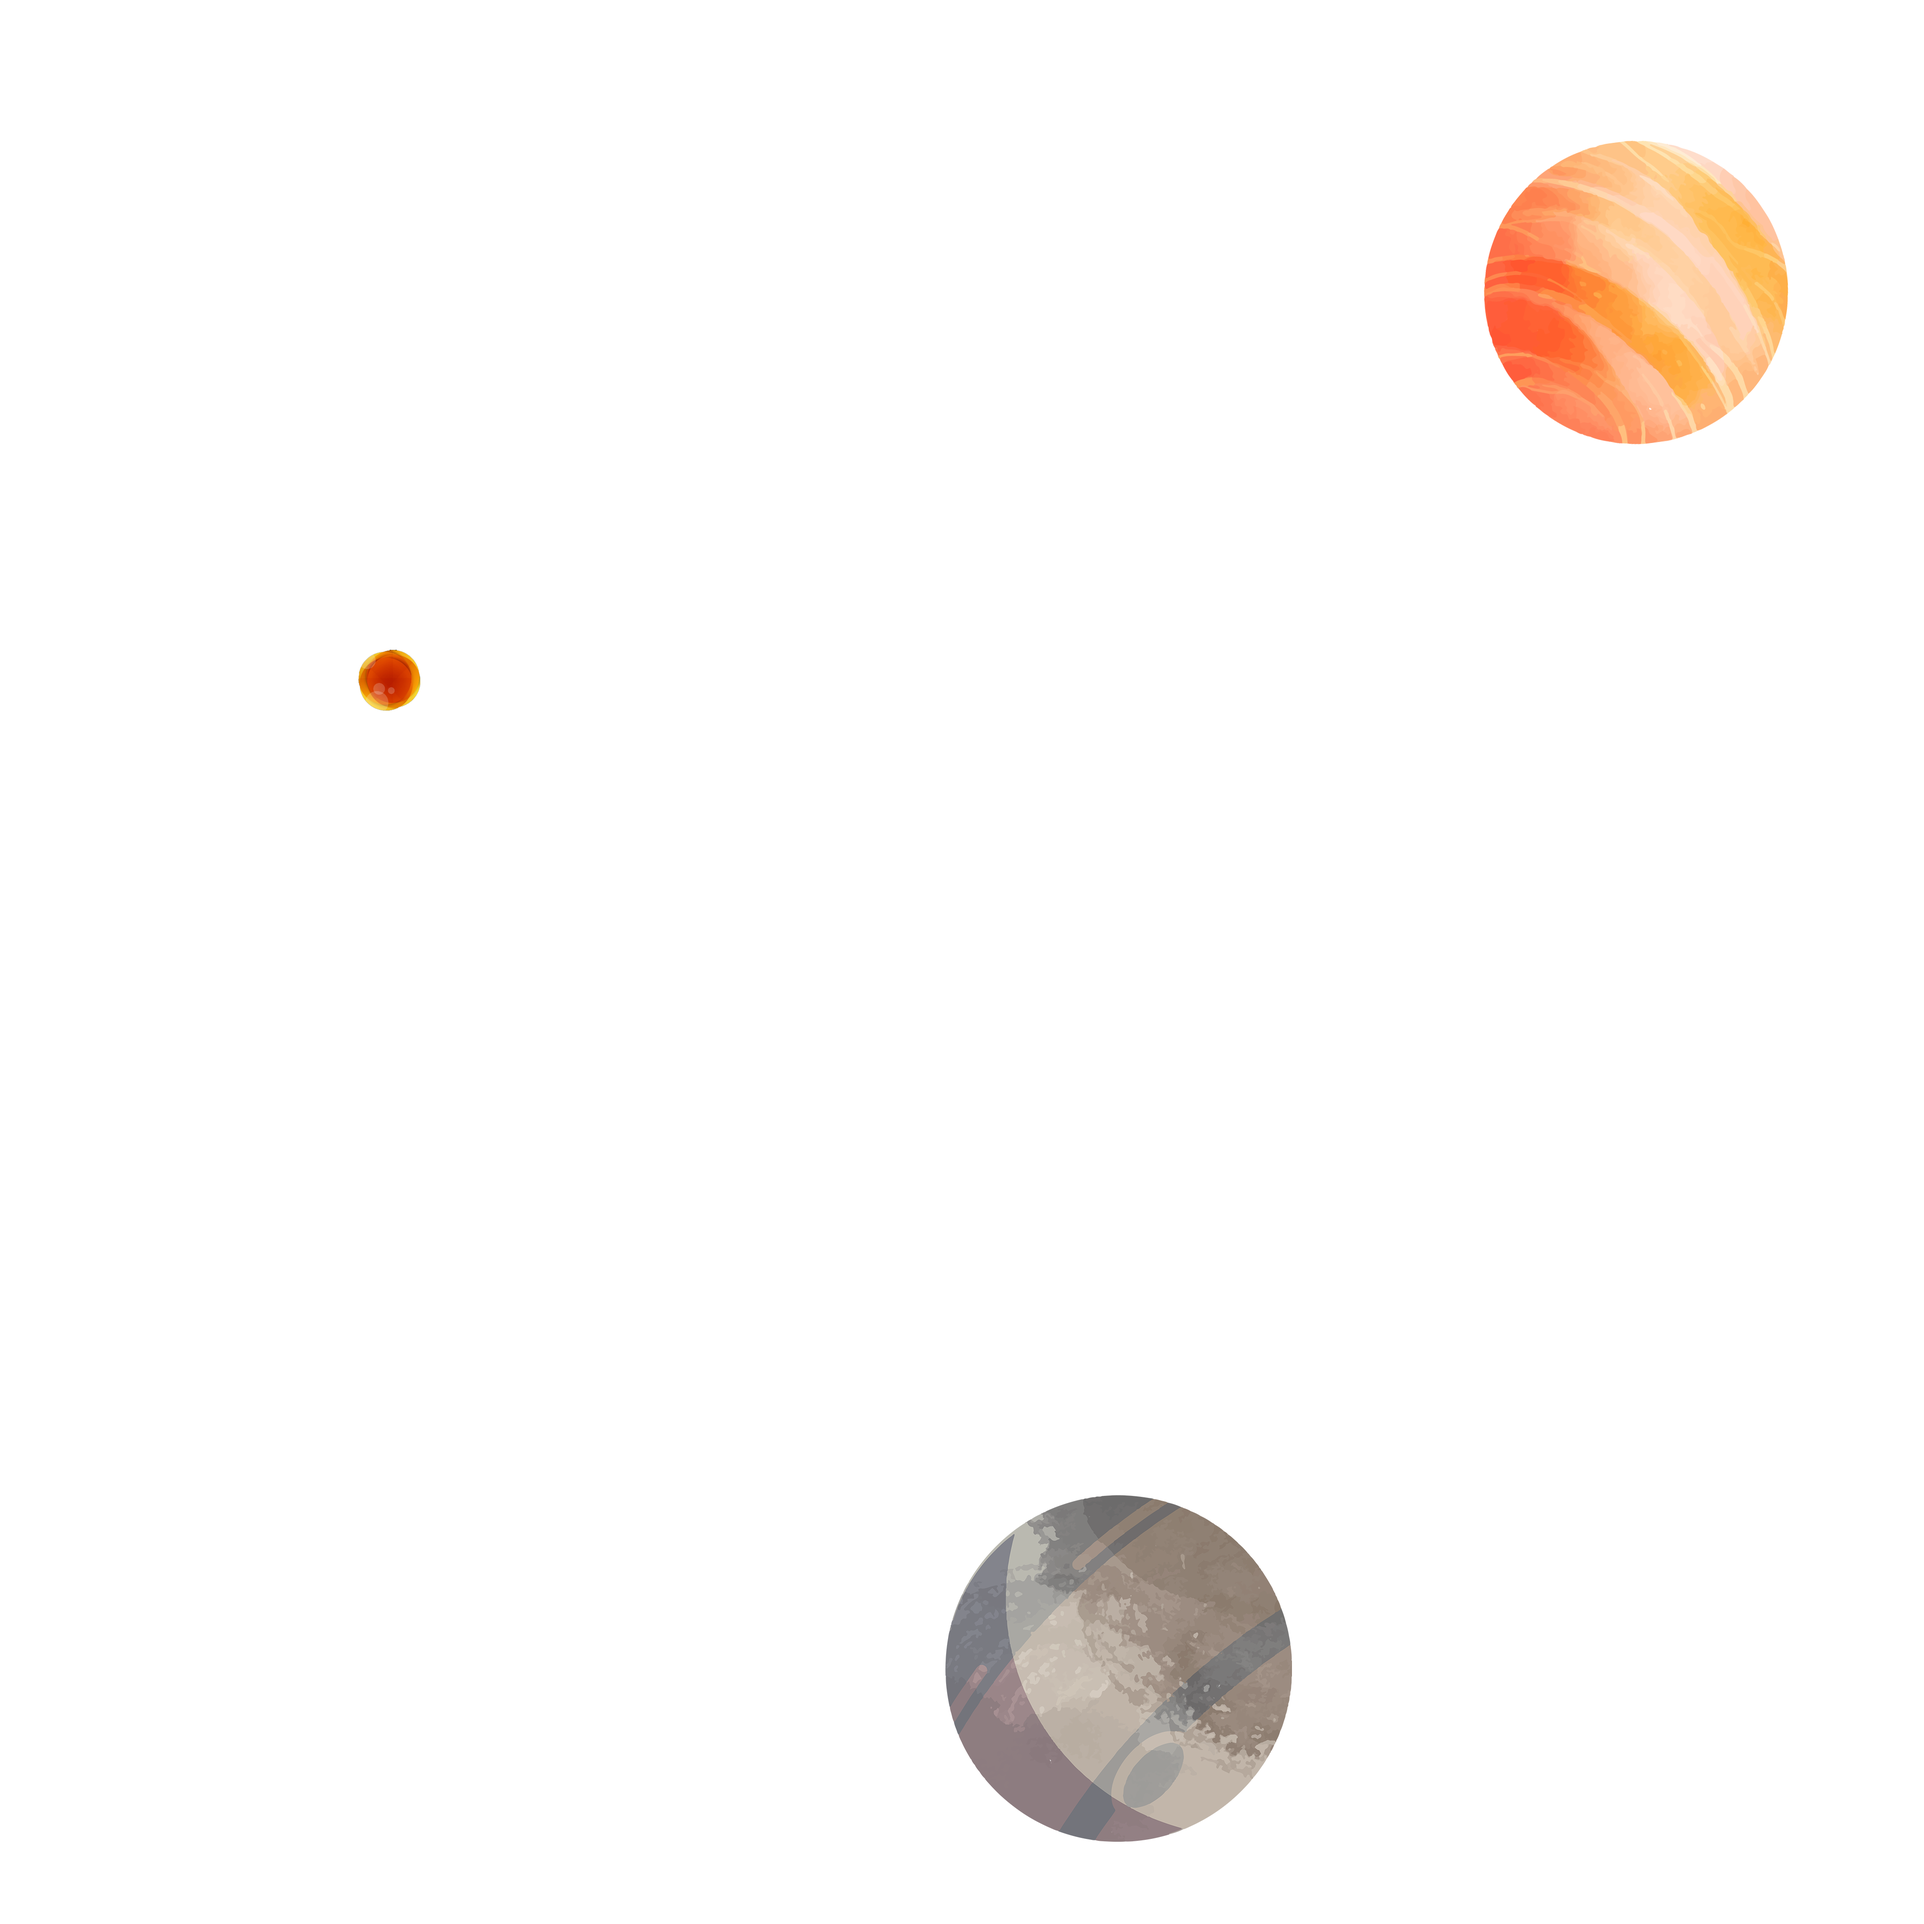
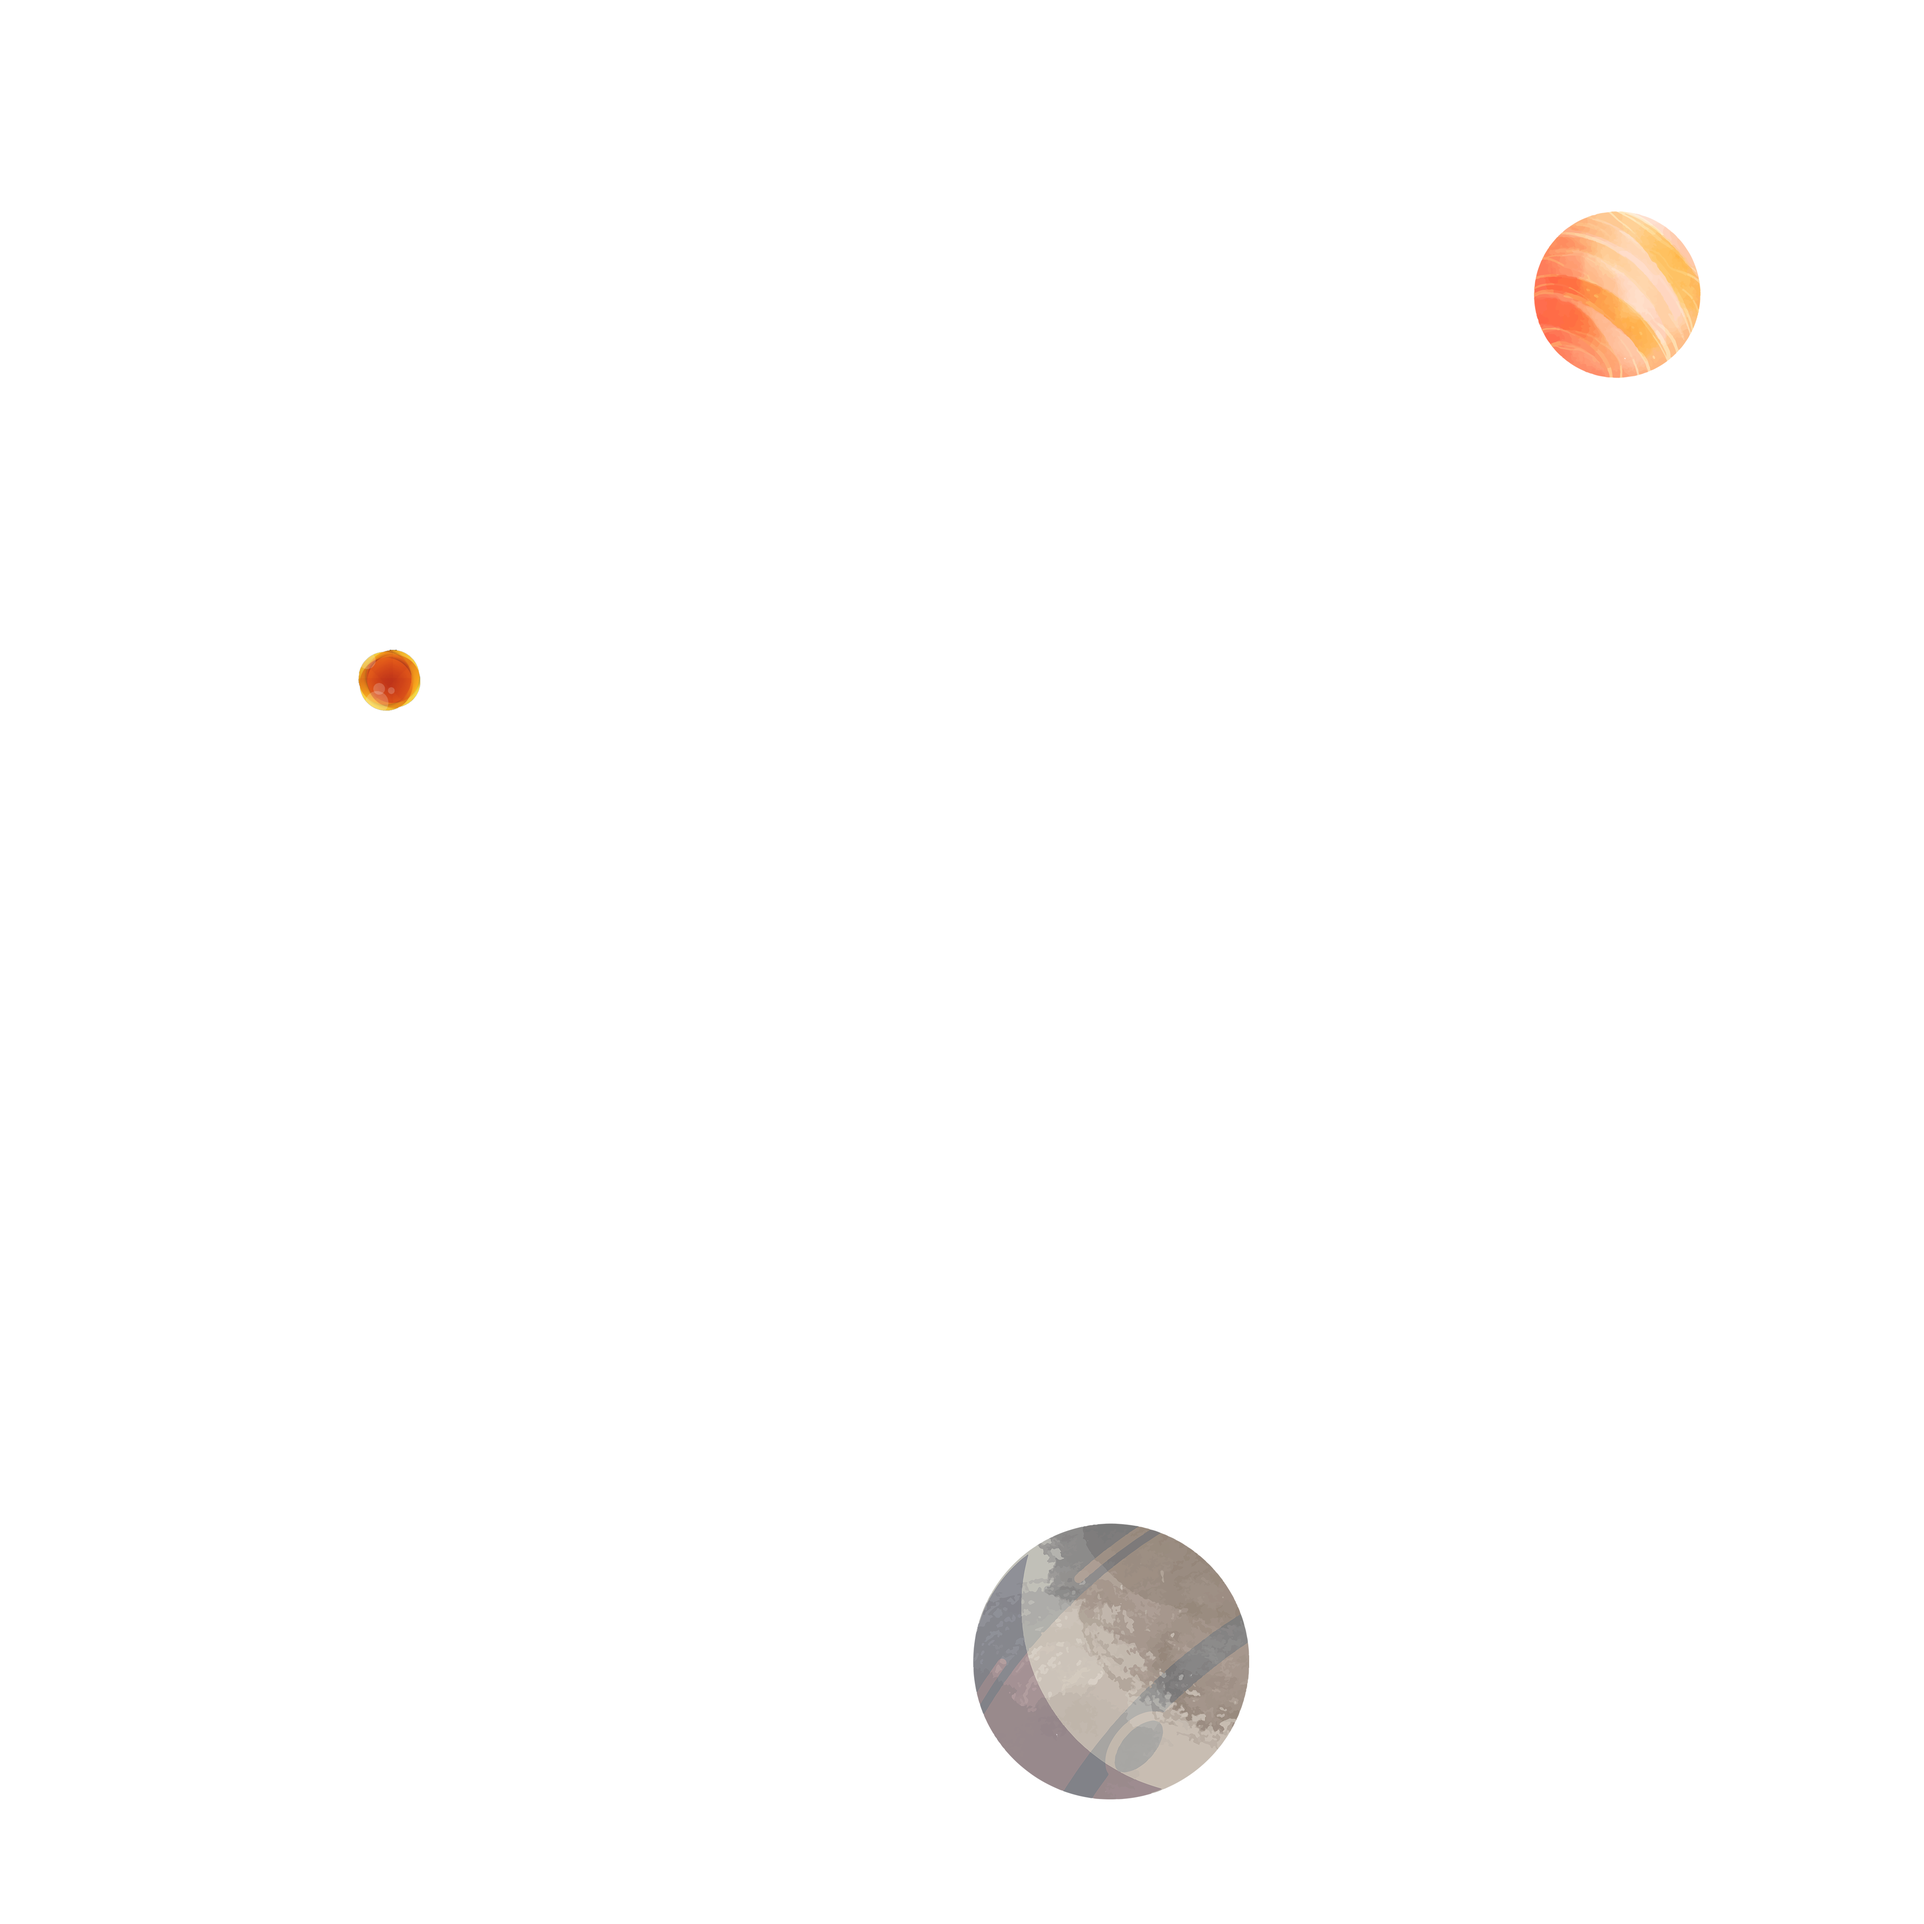
變慢惹

Changed region(s): [[0.4688, 0.75, 0.6875, 0.9688], [0.75, 0.0625, 0.9375, 0.25], [0.1875, 0.3438, 0.2188, 0.375]]

diff --git a/dev/sass/_xs.scss b/dev/sass/_xs.scss
@@ -2910,13 +2910,13 @@ button{
         width: 280%;
     }
     img:nth-child(1){
-        animation: indexStar 40s infinite linear;
+        animation: indexStar 170s infinite linear;
     }
     img:nth-child(2){
-        animation: indexStar 20s infinite linear;
+        animation: indexStar 80s infinite linear;
     }
     img:nth-child(3){
-        animation: indexStar 25s infinite linear;
+        animation: indexStar 35s infinite linear;
     }
 }
 

diff --git a/dev/index.html b/dev/index.html
@@ -439,7 +439,9 @@
         </div>
         
     </footer>
+    <canvas id="starShine" witdh="100%" height="100%"></canvas>
 </div>
+<script src="js/starsShine.js"></script>
 <script src="js/PieChart.js"></script>
 <script>
     $(document).ready(function() {
